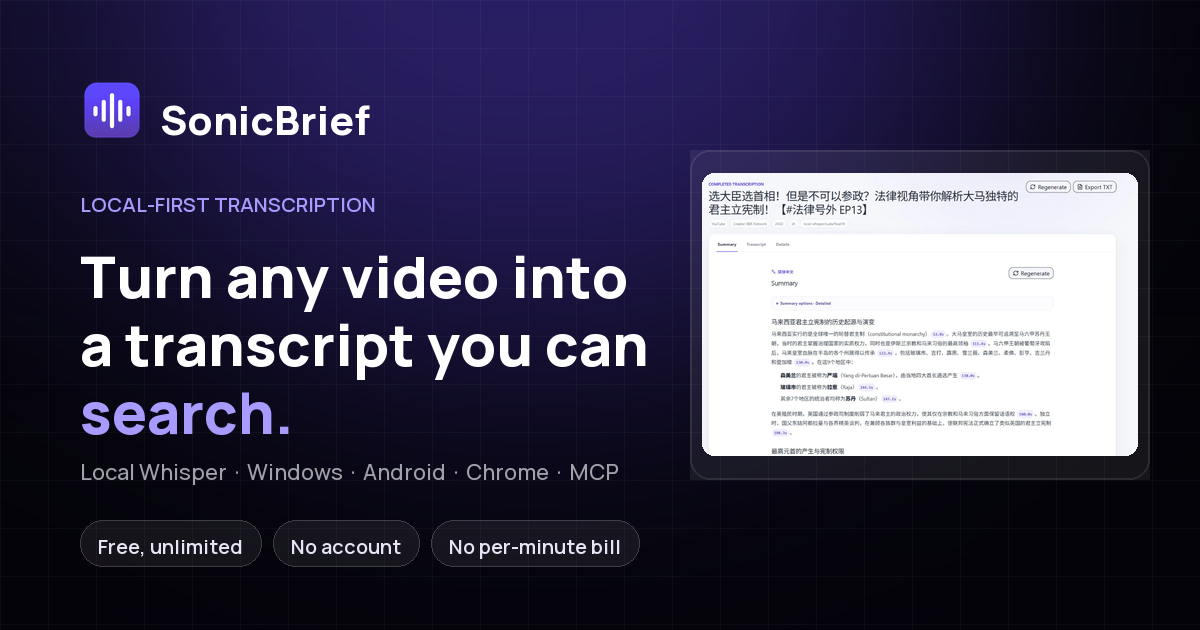
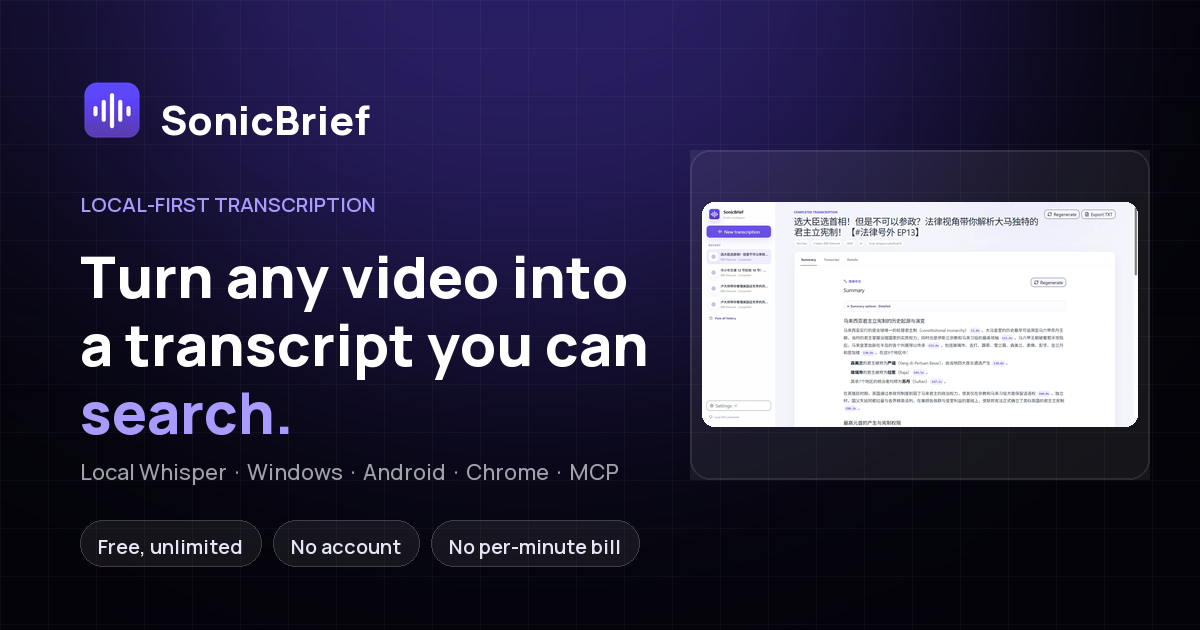
Site: use the 1920px desktop captures and a non-cropping phone frame
- Desktop screenshots come from the new 1920x1020 captures. Only the 29px
  Windows title bar is trimmed; the sidebar stays in frame and every panel now
  has 1.9x the pixels, which fixes the soft hero on HiDPI displays.
- The tour frame aspect follows the new captures, so nothing is letterboxed or
  cropped, and the Windows tab shows Job details instead of the crowded
  download-settings dialog.
- Phone captures sit in a bezel again, but inside a 12px mat: at the diagonal
  the rounded screen stops ~2.5px short of the image corners, so the status bar
  and bottom nav are never clipped.
- Settings tab shows the browser-extension pane (the Gemini capture was caught
  mid-load) with a caption to match.

Changed region(s): [[0.5858, 0.2714, 0.9558, 0.7238], [0.8325, 0.4222, 0.8942, 0.4524]]

diff --git a/site/index.html b/site/index.html
@@ -32,7 +32,7 @@
 
 <link rel="preload" href="assets/fonts/manrope-400.ttf" as="font" type="font/ttf" crossorigin>
 <link rel="preload" href="assets/fonts/manrope-800.ttf" as="font" type="font/ttf" crossorigin>
-<link rel="preload" href="assets/img/desktop-hero-612.webp" as="image" type="image/webp" imagesrcset="assets/img/desktop-hero-612.webp 612w, assets/img/desktop-hero.webp 1224w" imagesizes="(max-width: 820px) 92vw, 1080px">
+<link rel="preload" href="assets/img/desktop-hero-960.webp" as="image" type="image/webp" imagesrcset="assets/img/desktop-hero-960.webp 960w, assets/img/desktop-hero.webp 1920w" imagesizes="(max-width: 820px) 92vw, 1080px">
 <link rel="stylesheet" href="assets/css/styles.css">
 
 <link rel="alternate" hreflang="en" href="https://nestchao.github.io/SonicBrief/">
@@ -198,10 +198,10 @@
           </div>
           <div class="window__body">
             <img
-              src="assets/img/desktop-hero-612.webp"
-              srcset="assets/img/desktop-hero-612.webp 612w, assets/img/desktop-hero.webp 1224w"
+              src="assets/img/desktop-hero-960.webp"
+              srcset="assets/img/desktop-hero-960.webp 960w, assets/img/desktop-hero.webp 1920w"
               sizes="(max-width: 820px) 92vw, 1080px"
-              width="1224" height="795" fetchpriority="high" decoding="async"
+              width="1920" height="991" fetchpriority="high" decoding="async"
               alt="SonicBrief desktop app: a 24-minute Bilibili video transcribed, with the Summary tab open and timestamp chips inline."
               data-i18n-attr="alt" data-i18n="hero.imgAlt">
           </div>
@@ -280,34 +280,34 @@
           <div class="tour__panels">
             <div class="tour__panel is-active" role="tabpanel" id="tour-panel-1" data-panel="fade" aria-labelledby="tour-tab-1">
               <img
-                 src="assets/img/desktop-transcript-612.webp"
-                 srcset="assets/img/desktop-transcript-612.webp 612w, assets/img/desktop-transcript.webp 1224w"
-                 sizes="(max-width: 900px) 94vw, 1100px" width="1224" height="792" loading="lazy" decoding="async"
+                 src="assets/img/desktop-transcript-960.webp"
+                 srcset="assets/img/desktop-transcript-960.webp 960w, assets/img/desktop-transcript.webp 1920w"
+                 sizes="(max-width: 900px) 94vw, 1100px" width="1920" height="991" loading="lazy" decoding="async"
                  alt="Transcript tab: 408 timestamped segments with search and a copy button."
                  data-i18n-attr="alt" data-i18n="tour.alt1">
             </div>
             <div class="tour__panel" role="tabpanel" id="tour-panel-2" data-panel="fade" aria-labelledby="tour-tab-2">
               <img
-                 src="assets/img/desktop-details-612.webp"
-                 srcset="assets/img/desktop-details-612.webp 612w, assets/img/desktop-details.webp 1224w"
-                 sizes="(max-width: 900px) 94vw, 1100px" width="1224" height="794" loading="lazy" decoding="async"
+                 src="assets/img/desktop-details-960.webp"
+                 srcset="assets/img/desktop-details-960.webp 960w, assets/img/desktop-details.webp 1920w"
+                 sizes="(max-width: 900px) 94vw, 1100px" width="1920" height="991" loading="lazy" decoding="async"
                  alt="Details tab: source, creator, duration, transcript language, Whisper model and processing engine."
                  data-i18n-attr="alt" data-i18n="tour.alt2">
             </div>
             <div class="tour__panel" role="tabpanel" id="tour-panel-3" data-panel="fade" aria-labelledby="tour-tab-3">
               <img
-                 src="assets/img/desktop-new-brief-612.webp"
-                 srcset="assets/img/desktop-new-brief-612.webp 612w, assets/img/desktop-new-brief.webp 1224w"
-                 sizes="(max-width: 900px) 94vw, 1100px" width="1224" height="795" loading="lazy" decoding="async"
+                 src="assets/img/desktop-new-brief-960.webp"
+                 srcset="assets/img/desktop-new-brief-960.webp 960w, assets/img/desktop-new-brief.webp 1920w"
+                 sizes="(max-width: 900px) 94vw, 1100px" width="1920" height="991" loading="lazy" decoding="async"
                  alt="New transcription dialog with a media URL field and advanced options for model, language and summary style."
                  data-i18n-attr="alt" data-i18n="tour.alt3">
             </div>
             <div class="tour__panel" role="tabpanel" id="tour-panel-4" data-panel="fade" aria-labelledby="tour-tab-4">
               <img
-                 src="assets/img/desktop-settings-612.webp"
-                 srcset="assets/img/desktop-settings-612.webp 612w, assets/img/desktop-settings.webp 1224w"
-                 sizes="(max-width: 900px) 94vw, 1100px" width="1224" height="782" loading="lazy" decoding="async"
-                 alt="Settings dialog: Gemini API key stored locally, model picker loaded from the key’s real capabilities."
+                 src="assets/img/desktop-settings-960.webp"
+                 srcset="assets/img/desktop-settings-960.webp 960w, assets/img/desktop-settings.webp 1920w"
+                 sizes="(max-width: 900px) 94vw, 1100px" width="1920" height="991" loading="lazy" decoding="async"
+                 alt="Settings dialog on the browser extension tab: open chrome://extensions, enable Developer mode, load the unpacked folder."
                  data-i18n-attr="alt" data-i18n="tour.alt4">
             </div>
           </div>
@@ -323,7 +323,7 @@
           <span data-i18n="tour.cap3">One field for the link, two clicks to start. The advanced options stay folded until you want them.</span>
         </p>
         <p class="tour__caption" data-tour-caption hidden>
-          <span data-i18n="tour.cap4">Your key stays on disk and never comes back to the UI. The model list is read from Google.</span>
+          <span data-i18n="tour.cap4">Load the extension once: five steps, and the folder path is copied for you.</span>
         </p>
       </div>
     </div>
@@ -609,8 +609,8 @@
             </div>
             <div class="panel__art">
               <div class="window window--sm">
-                <div class="window__bar"><span class="window__dots" aria-hidden="true"><i></i><i></i><i></i></span><span class="window__title" data-i18n="plat.winArt">Download settings</span></div>
-                <img src="assets/img/desktop-downloads-612.webp" srcset="assets/img/desktop-downloads-612.webp 612w, assets/img/desktop-downloads.webp 1224w" sizes="(max-width: 900px) 92vw, 520px" width="1224" height="794" loading="lazy" decoding="async" alt="SonicBrief download settings with the cookie source picker for YouTube." data-i18n-attr="alt" data-i18n="plat.winArtAlt">
+                <div class="window__bar"><span class="window__dots" aria-hidden="true"><i></i><i></i><i></i></span><span class="window__title" data-i18n="plat.winArt">Job details</span></div>
+                <img src="assets/img/desktop-details-960.webp" srcset="assets/img/desktop-details-960.webp 960w, assets/img/desktop-details.webp 1920w" sizes="(max-width: 900px) 92vw, 520px" width="1920" height="991" loading="lazy" decoding="async" alt="Job details: source, creator, duration, transcript language, Whisper model and processing engine." data-i18n-attr="alt" data-i18n="plat.winArtAlt">
               </div>
             </div>
           </div>
@@ -637,8 +637,10 @@
               <p class="panel__fine" data-i18n="plat.andFine">Release builds are signed. Debug builds use a separate package name, so both can live on the same phone.</p>
             </div>
             <div class="panel__art panel__art--phone">
-              <div class="screen screen--panel">
-                <img src="assets/img/android-progress.webp" width="720" height="1280" loading="eager" decoding="async" alt="Android app showing the five-step progress timeline with an elapsed clock." data-i18n-attr="alt" data-i18n="plat.andArtAlt">
+              <div class="phone phone--panel">
+                <div class="phone__screen">
+                  <img src="assets/img/android-progress.webp" width="720" height="1280" loading="eager" decoding="async" alt="Android app showing the five-step progress timeline with an elapsed clock." data-i18n-attr="alt" data-i18n="plat.andArtAlt">
+                </div>
               </div>
             </div>
           </div>
@@ -746,43 +748,55 @@ cd SonicBrief
 
       <div class="gallery__rail">
         <figure class="shot">
-          <div class="screen">
-            <img src="assets/img/android-home.webp" width="720" height="1280" loading="lazy" decoding="async" alt="Android home screen with a media link field, a local file picker and a floating navigation bar." data-i18n-attr="alt" data-i18n="gal.alt1">
+          <div class="phone">
+            <div class="phone__screen">
+              <img src="assets/img/android-home.webp" width="720" height="1280" loading="lazy" decoding="async" alt="Android home screen with a media link field, a local file picker and a floating navigation bar." data-i18n-attr="alt" data-i18n="gal.alt1">
+            </div>
           </div>
           <figcaption data-i18n="gal.cap1">Capture a link or a file</figcaption>
         </figure>
 
         <figure class="shot">
-          <div class="screen">
-            <img src="assets/img/android-progress.webp" width="720" height="1280" loading="eager" decoding="async" alt="Android job screen showing five named steps and a live elapsed clock." data-i18n-attr="alt" data-i18n="gal.alt2">
+          <div class="phone">
+            <div class="phone__screen">
+              <img src="assets/img/android-progress.webp" width="720" height="1280" loading="eager" decoding="async" alt="Android job screen showing five named steps and a live elapsed clock." data-i18n-attr="alt" data-i18n="gal.alt2">
+            </div>
           </div>
           <figcaption data-i18n="gal.cap2">Five named steps, live</figcaption>
         </figure>
 
         <figure class="shot">
-          <div class="screen">
-            <img src="assets/img/android-summary.webp" width="720" height="1280" loading="lazy" decoding="async" alt="Android summary screen with Markdown headings, bullets and inline timestamp chips." data-i18n-attr="alt" data-i18n="gal.alt3">
+          <div class="phone">
+            <div class="phone__screen">
+              <img src="assets/img/android-summary.webp" width="720" height="1280" loading="lazy" decoding="async" alt="Android summary screen with Markdown headings, bullets and inline timestamp chips." data-i18n-attr="alt" data-i18n="gal.alt3">
+            </div>
           </div>
           <figcaption data-i18n="gal.cap3">Summaries as real Markdown</figcaption>
         </figure>
 
         <figure class="shot">
-          <div class="screen">
-            <img src="assets/img/android-settings.webp" width="720" height="1280" loading="lazy" decoding="async" alt="Android settings screen for the Gemini API key and model selection." data-i18n-attr="alt" data-i18n="gal.alt4">
+          <div class="phone">
+            <div class="phone__screen">
+              <img src="assets/img/android-settings.webp" width="720" height="1280" loading="lazy" decoding="async" alt="Android settings screen for the Gemini API key and model selection." data-i18n-attr="alt" data-i18n="gal.alt4">
+            </div>
           </div>
           <figcaption data-i18n="gal.cap4">Your key, encrypted on device</figcaption>
         </figure>
 
         <figure class="shot">
-          <div class="screen">
-            <img src="assets/img/android-transcript.webp" width="720" height="1280" loading="lazy" decoding="async" alt="Android transcript tab with timestamped segments." data-i18n-attr="alt" data-i18n="gal.alt5">
+          <div class="phone">
+            <div class="phone__screen">
+              <img src="assets/img/android-transcript.webp" width="720" height="1280" loading="lazy" decoding="async" alt="Android transcript tab with timestamped segments." data-i18n-attr="alt" data-i18n="gal.alt5">
+            </div>
           </div>
           <figcaption data-i18n="gal.cap5">The full transcript, timecoded</figcaption>
         </figure>
 
         <figure class="shot">
-          <div class="screen">
-            <img src="assets/img/android-dark.webp" width="720" height="1280" loading="lazy" decoding="async" alt="Android app in dark mode." data-i18n-attr="alt" data-i18n="gal.alt6">
+          <div class="phone">
+            <div class="phone__screen">
+              <img src="assets/img/android-dark.webp" width="720" height="1280" loading="lazy" decoding="async" alt="Android app in dark mode." data-i18n-attr="alt" data-i18n="gal.alt6">
+            </div>
           </div>
           <figcaption data-i18n="gal.cap6">Dark mode, same system</figcaption>
         </figure>

diff --git a/site/assets/css/styles.css b/site/assets/css/styles.css
@@ -1148,7 +1148,7 @@
 
   .tour__panels {
     position: relative;
-    aspect-ratio: 1224 / 795;
+    aspect-ratio: 1920 / 991;
     background: var(--surface-2);
   }
 
@@ -1708,37 +1708,36 @@
      exactly 9:16, so the whole screenshot fits and nothing is cropped away by
      object-fit. The 1px inner ring gives the white app a finished edge against
      the black bezel instead of a hard clipped rectangle. */
-  /* Screenshots are shown whole. A rounded mask would clip the corner pixels
-     of the capture itself — status-bar icons, the bottom nav — so the frame is
-     square, with a hairline and a soft shadow doing the visual work instead. */
-  .screen {
+  /* A device frame that cannot crop. The bezel is rounded, the screen inside it
+     keeps a 12px mat, and the capture sits square inside that mat — so the
+     curved edge stops roughly 3px short of the image's corners at the diagonal.
+     Every pixel of the screenshot stays visible. */
+  .phone {
     position: relative;
-    width: 236px;
-    background: var(--surface);
-    border: 1px solid var(--border-strong);
+    width: 320px;
+    padding: 8px;
+    border-radius: 40px;
+    background: linear-gradient(155deg, #34343f 0%, #17171f 42%, #0a0a0f 100%);
     box-shadow:
-      0 20px 44px -26px rgba(16, 12, 46, 0.4),
-      0 1px 2px rgba(16, 12, 46, 0.06);
-    transition:
-      transform 0.26s var(--ease),
-      border-color 0.26s var(--ease),
-      box-shadow 0.3s var(--ease);
+      0 30px 60px -32px rgba(8, 8, 20, 0.75),
+      inset 0 0 0 1px rgba(255, 255, 255, 0.13);
+    transition: transform 0.26s var(--ease), box-shadow 0.3s var(--ease);
   }
 
-  html[data-theme="dark"] .screen {
-    box-shadow:
-      0 20px 44px -24px rgba(0, 0, 0, 0.9),
-      0 1px 2px rgba(0, 0, 0, 0.5);
+  .phone__screen {
+    padding: 12px;
+    border-radius: 32px;
+    background: #07070b;
   }
 
-  .screen img {
+  .phone__screen img {
     display: block;
     width: 100%;
     height: auto;
   }
 
-  .screen--panel {
-    width: 264px;
+  .phone--panel {
+    width: 296px;
   }
 
   /* --- browser frame ----------------------------------------------------- */
@@ -1824,16 +1823,15 @@
     margin: 0;
   }
 
-  .shot .screen {
-    width: min(300px, 100%);
+  .shot .phone {
+    width: min(320px, 100%);
   }
 
-  .shot:hover .screen {
+  .shot:hover .phone {
     transform: translateY(-4px);
-    border-color: var(--brand-line);
     box-shadow:
-      0 34px 64px -32px rgba(16, 12, 46, 0.5),
-      0 2px 6px rgba(16, 12, 46, 0.06);
+      0 38px 70px -34px rgba(8, 8, 20, 0.8),
+      inset 0 0 0 1px rgba(255, 255, 255, 0.18);
   }
 
   .shot figcaption {
@@ -2353,9 +2351,9 @@
       scroll-snap-align: center;
     }
 
-    .shot .screen {
+    .shot .phone {
       width: 100%;
-      max-width: 300px;
+      max-width: 320px;
     }
 
     .privacy__grid {

diff --git a/scripts/build_site_assets.py b/scripts/build_site_assets.py
@@ -37,15 +37,11 @@ FONT_SRC = ROOT / "android" / "app" / "src" / "main" / "res" / "font"
 IMG_OUT = ROOT / "site" / "assets" / "img"
 FONT_OUT = ROOT / "site" / "assets" / "fonts"
 
-# The captured window is 1532x815 at 100%: a 306 px sidebar, then the content
-# area, with the Windows title bar occupying the first 28 px. Cropping at the
-# sidebar keeps the marketing shots focused on the workspace and, deliberately,
-# leaves out the two failing jobs that happen to sit in that user's history.
-# The content area ends with a 14 px scrollbar, so the right inset is larger.
-DESKTOP_CROP = (306, 28, -16, -2)
-DESKTOP_WIDTHS = (1224, 612)
-# Nominal frame size of a full content-area crop; shorter crops are padded to it.
-DESKTOP_PAD_W, DESKTOP_PAD_H = 1224, 795
+# Captures are 1920x1020 windows. The only chrome is the Windows 11 title bar in
+# the first 29 px; the app window fills the rest edge to edge, so nothing else
+# is trimmed and the sidebar (all Completed jobs) stays in frame.
+DESKTOP_CROP = (0, 29, 0, 0)
+DESKTOP_WIDTHS = (1920, 960)
 ANDROID_WIDTH = 720
 
 WEBP_QUALITY = 82
@@ -54,12 +50,11 @@ WEBP_QUALITY = 82
 # The tour re-uses summary.jpg with a lower crop so the same capture reads as a
 # different screen (timestamp chips in the body) without a second screenshot.
 DESKTOP_SHOTS = {
-    "desktop-hero": ("summary.jpg", None, "Summary view with the video title and tab strip"),
-    "desktop-transcript": ("transcript.jpg", None, "Transcript with 408 timestamped segments"),
-    "desktop-details": ("details.jpg", None, "Details panel: model, engine, duration"),
-    "desktop-new-brief": ("new-brief-advanced.jpg", None, "New transcription dialog, advanced options"),
-    "desktop-settings": ("settings-gemini.jpg", None, "Gemini settings, key connected"),
-    "desktop-downloads": ("settings-downloads.jpg", None, "Download settings and cookies"),
+    "desktop-hero": ("summary.png", None, "Summary view with the sidebar and recent briefs"),
+    "desktop-transcript": ("transcript.png", None, "Transcript with 408 timestamped segments"),
+    "desktop-details": ("details.png", None, "Details panel: model, engine, duration"),
+    "desktop-new-brief": ("new-brief.png", None, "New transcription dialog, media URL"),
+    "desktop-settings": ("settings-extension.png", None, "Browser extension install steps"),
 }
 
 # Phone captures already committed under docs/android.
@@ -105,10 +100,6 @@ def build_desktop() -> None:
             shot = raw.convert("RGB")
         left, top, right, bottom = override or DESKTOP_CROP
         shot = shot.crop((left, top, shot.width + right, shot.height + bottom))
-        # Every panel shares one aspect ratio so the tour never jumps height.
-        # Shorter crops are padded with the page colour instead of stretched.
-        base = ImageOps.pad(shot, (DESKTOP_PAD_W, DESKTOP_PAD_H), color=shot.getpixel((2, shot.height - 3)), centering=(0.5, 0.0))
-        shot = base
         for width in DESKTOP_WIDTHS:
             suffix = "" if width == DESKTOP_WIDTHS[0] else f"-{width}"
             height = round(shot.height * width / shot.width)
